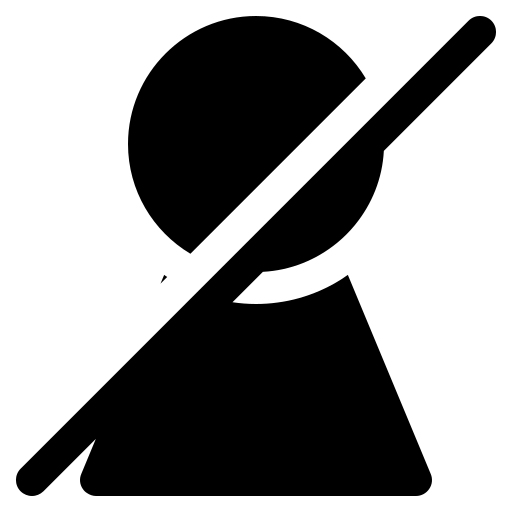
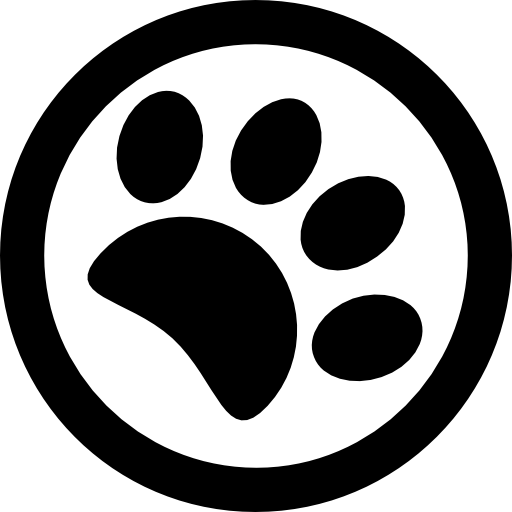
feat(imagenPorDefectoMapa): se utiliza la imagen por defecto en el mapa para una mascota sin foto de perfil

diff --git a/src/components/MapMascotaComponent.jsx b/src/components/MapMascotaComponent.jsx
@@ -51,8 +51,9 @@ const MapMascotaComponent = ({ mascotas , puntos, ultimaUbicacionGlobal }) => {
         
             // 2. Crear marcador (imagen)
             const marcador = document.createElement('div');
+            const urlFoto = mascotas[punto.mascotaId]?.urlFoto || '/assets/mascotaPorDefecto.png';
             marcador.className = 'w-10 h-10 bg-no-repeat bg-contain cursor-pointer rounded-full border-4 border-red-500';
-            marcador.style.backgroundImage = `url(${mascotas[punto.mascotaId].urlFoto})`; // Cambia la URL de la imagen según tu lógica
+            marcador.style.backgroundImage = `url(${urlFoto})`;
             marcador.style.backgroundSize = 'cover';
             marcador.style.backgroundPosition = 'center';
         
